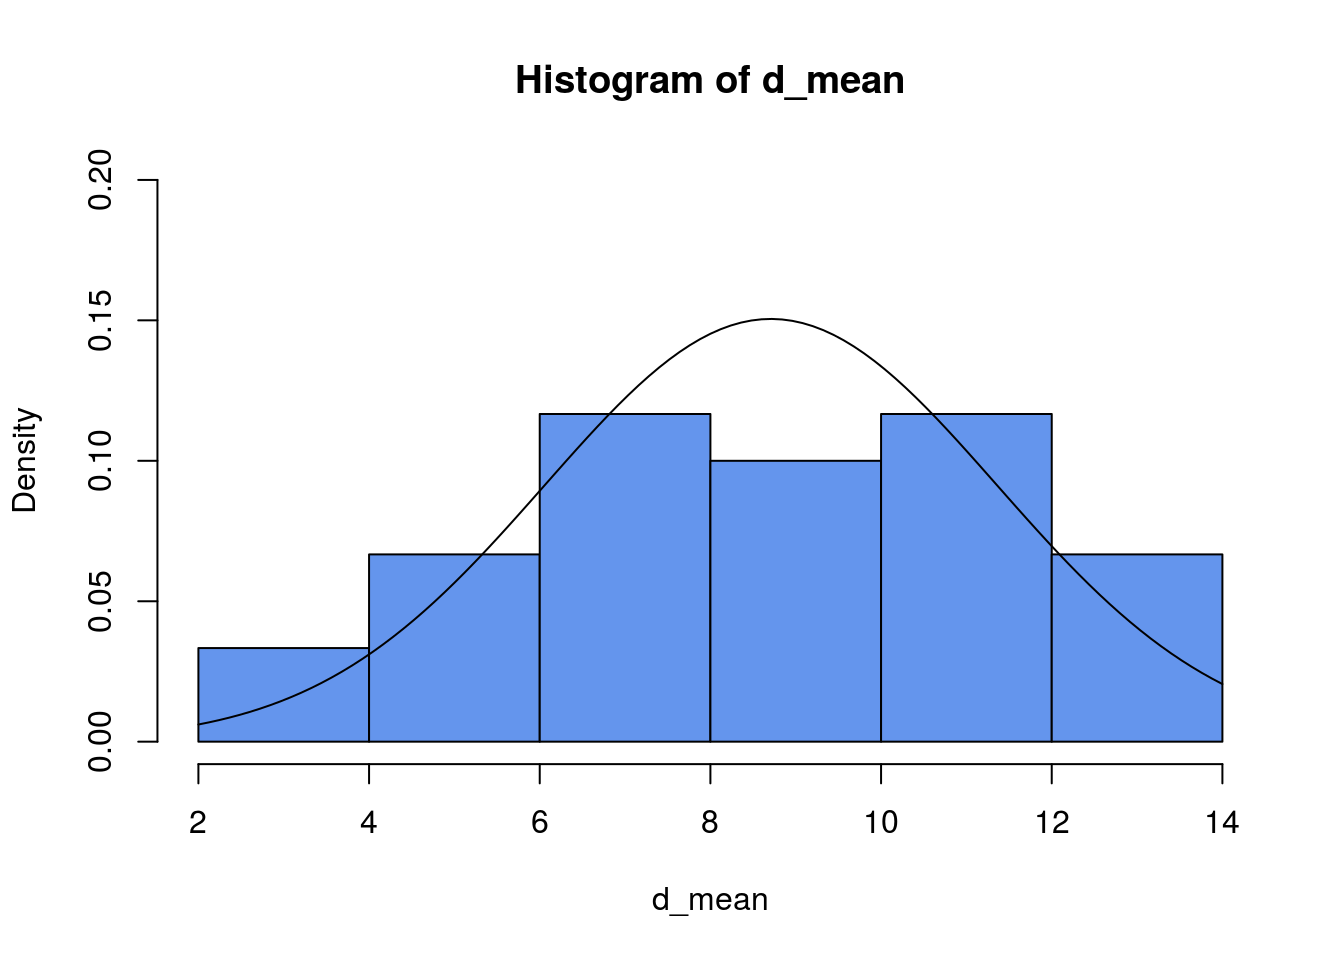
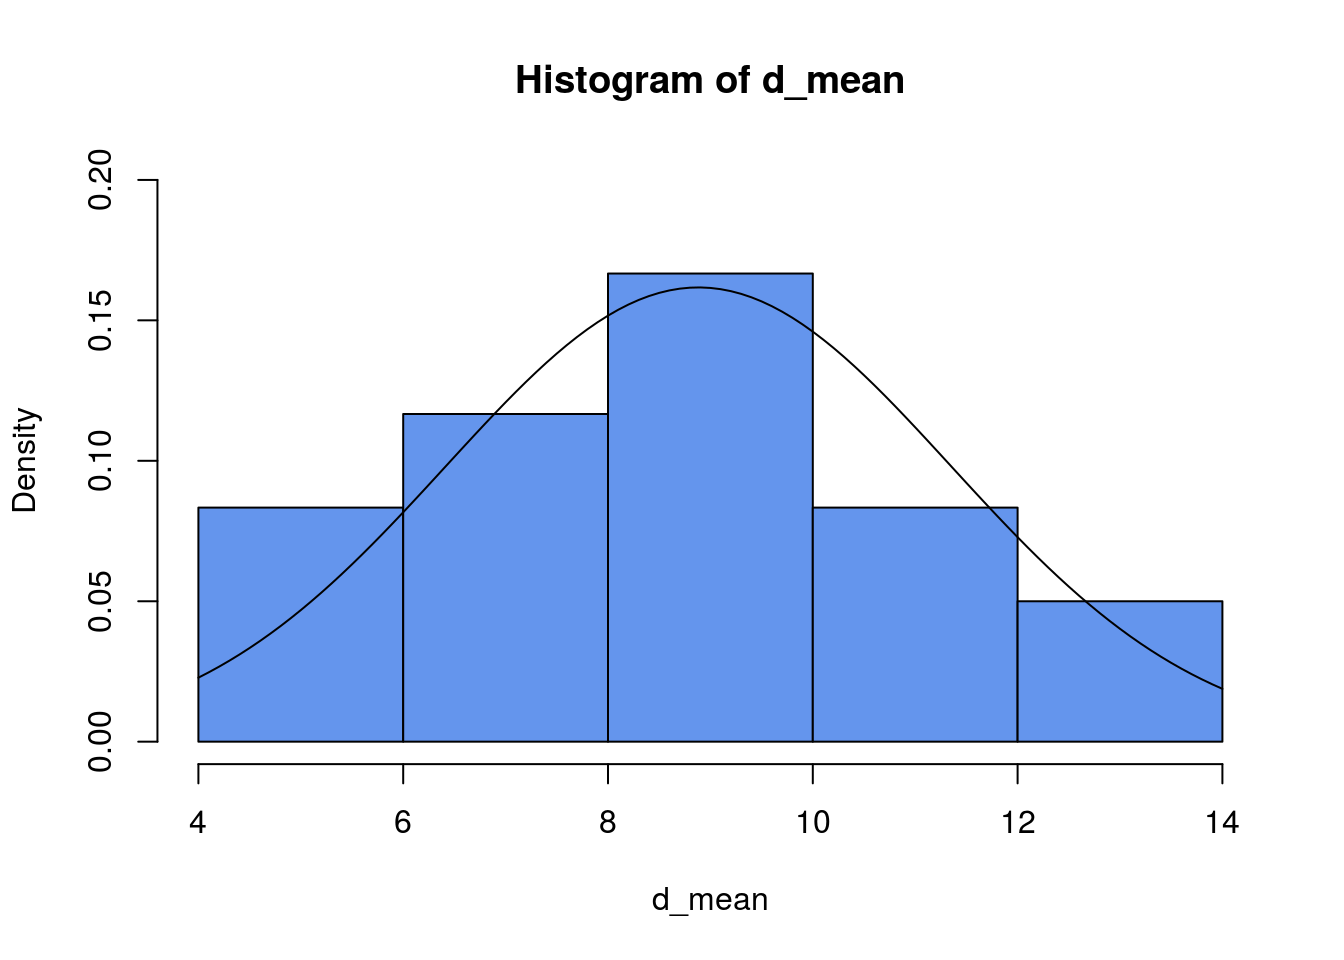
Go!

diff --git a/d_muestral.html b/d_muestral.html
@@ -334,16 +334,16 @@ for (i in 1:30){
   d_mean[i] &lt;- mean(sample(N,size = 4,replace = TRUE))
 }
 print(d_mean)</code></pre>
-<pre><code>##  [1]  8.00 12.50  3.75  5.50 10.25  7.25  3.75  7.50  9.50 11.25  5.25
-## [12]  8.75  9.00 10.25  5.00  5.75  9.00  8.50 12.50 13.00  8.50 10.25
-## [23]  8.00  7.75  7.00 11.25 12.00 12.75  7.00 10.50</code></pre>
+<pre><code>##  [1]  6.50  9.25  5.25  5.75  6.25  9.00  8.25 11.00  6.00 13.00 13.50
+## [12]  7.00 11.00  8.50  7.25  5.75 11.00  9.25  9.50  9.75 13.75  9.75
+## [23]  6.00  8.00  6.75  6.50  9.50  9.75 11.75 12.00</code></pre>
 </div>
 <div id="calculamos-las-medias-de-todas-esas-muestras-y-tratamos-de-ver-graficamente-mediante-un-histograma-al-menos-si-hay-acercamiento-a-normalidad." class="section level4">
 <h4>3) Calculamos las medias de todas esas muestras y tratamos de ver gráficamente mediante un histograma al menos si hay acercamiento a Normalidad.</h4>
 <pre class="r"><code>mean(d_mean)</code></pre>
-<pre><code>## [1] 8.708333</code></pre>
+<pre><code>## [1] 8.883333</code></pre>
 <pre class="r"><code>sd(d_mean)</code></pre>
-<pre><code>## [1] 2.650702</code></pre>
+<pre><code>## [1] 2.466791</code></pre>
 <pre class="r"><code>hist(d_mean,col = &quot;cornflowerblue&quot;,freq = F,ylim = c(0,0.2))
 curve(dnorm(x,mean(d_mean),sd(d_mean)),add=TRUE)</code></pre>
 <p><img src="d_muestral_files/figure-html/unnamed-chunk-3-1.png" width="672" /></p>
@@ -354,14 +354,14 @@ curve(dnorm(x,mean(d_mean),sd(d_mean)),add=TRUE)</code></pre>
 <div id="notar-que-la-media-de-las-medias-muestrales-es" class="section level4">
 <h4>1. Notar que la media de las medias muestrales es</h4>
 </div>
-<div id="mu_barx-8.71." class="section level4">
-<h4><span class="math inline">\(\mu_{\bar{X}}=\)</span> 8.71.</h4>
+<div id="mu_barx-8.88." class="section level4">
+<h4><span class="math inline">\(\mu_{\bar{X}}=\)</span> 8.88.</h4>
 </div>
 <div id="este-resultado-esta-bien-cerca-de-la-media-poblacional-pues-mu9.55" class="section level4">
 <h4>Este resultado está bien cerca de la media poblacional, pues <span class="math inline">\(\mu=9.55\)</span></h4>
 </div>
-<div id="la-desviacion-estandar-de-la-media-muestral-es-2.65-mientras-que" class="section level4">
-<h4>2. La desviación estándar de la media muestral es 2.65, mientras que</h4>
+<div id="la-desviacion-estandar-de-la-media-muestral-es-2.47-mientras-que" class="section level4">
+<h4>2. La desviación estándar de la media muestral es 2.47, mientras que</h4>
 </div>
 <div id="sigma_barxdfracsigmasqrtndfrac4.77sqrt42.4-." class="section level4">
 <h4><span class="math inline">\(\sigma_{\bar{X}}=\dfrac{\sigma}{\sqrt{n}}=\dfrac{4.77}{\sqrt{4}}=2.4\)</span> .</h4>
@@ -384,14 +384,14 @@ curve(dnorm(x,mean(d_mean),sd(d_mean)),add=TRUE)</code></pre>
 <p><img src="d_muestral_files/figure-html/unnamed-chunk-4-1.png" width="672" /></p>
 <p>Ahora, con un mayor número de muestras tenemos que:</p>
 </div>
-<div id="mu_barx-9.56." class="section level4">
-<h4><span class="math inline">\(\mu_{\bar{X}}=\)</span> 9.56.</h4>
+<div id="mu_barx-9.54." class="section level4">
+<h4><span class="math inline">\(\mu_{\bar{X}}=\)</span> 9.54.</h4>
 </div>
 <div id="este-resultado-esta-bien-cerca-de-la-media-poblacional-pues-mu9.55-1" class="section level4">
 <h4>Este resultado está bien cerca de la media poblacional, pues <span class="math inline">\(\mu=9.55\)</span></h4>
 </div>
-<div id="la-desviacion-estandar-de-la-media-muestral-es-2.27-comparado-con-sigma_barx2.38" class="section level4">
-<h4>2. La desviación estándar de la media muestral es 2.27, comparado con <span class="math inline">\(\sigma_{\bar{X}}=2.38\)</span></h4>
+<div id="la-desviacion-estandar-de-la-media-muestral-es-2.26-comparado-con-sigma_barx2.38" class="section level4">
+<h4>2. La desviación estándar de la media muestral es 2.26, comparado con <span class="math inline">\(\sigma_{\bar{X}}=2.38\)</span></h4>
 </div>
 </div>
 <div id="aplicaciones" class="section level3">
@@ -426,13 +426,40 @@ curve(dnorm(x,mean(d_mean),sd(d_mean)),add=TRUE)</code></pre>
 <div id="caso-2-cuando-desconocemos-la-distribucion-de-la-poblacion-y-n-geq-30" class="section level4">
 <h4>Caso 2: Cuando desconocemos la distribución de la población y <span class="math inline">\(n \geq 30\)</span></h4>
 <ol style="list-style-type: decimal">
-<li><h4 id="se-extrae-un-muestra-de-tamano-n30-de-una-poblacion-que-tiene-una-distribucion-desconocida-con-media-mu-y-varianza-sigma2-pero-que-por-alguna-razon-conocemos-que-mu10y-que-sigma233.34.-con-la-informacion-anterior-estamos-interesados-en-contestar-las-siguientes-preguntas">Se extrae un muestra de tamaño <span class="math inline">\(n=30\)</span> de una población que tiene una distribución desconocida con media <span class="math inline">\(\mu\)</span> y varianza <span class="math inline">\(\sigma^2\)</span>, pero que por alguna razón conocemos que <span class="math inline">\(\mu=10\)</span>y que <span class="math inline">\(\sigma^2=33.34\)</span>. Con la información anterior estamos interesados en contestar las siguientes preguntas:</h4></li>
+<li><h4 id="se-extrae-un-muestra-de-tamano-n30-de-una-poblacion-que-tiene-una-distribucion-desconocida-con-media-mu-y-varianza-sigma2-pero-que-por-alguna-razon-conocemos-que-mu10-y-que-sigma233.34.-con-la-informacion-anterior-estamos-interesados-en-contestar-las-siguientes-preguntas">Se extrae un muestra de tamaño <span class="math inline">\(n=30\)</span> de una población que tiene una distribución desconocida con media <span class="math inline">\(\mu\)</span> y varianza <span class="math inline">\(\sigma^2\)</span>, pero que por alguna razón conocemos que <span class="math inline">\(\mu=10\)</span> y que <span class="math inline">\(\sigma^2=33.34\)</span>. Con la información anterior estamos interesados en contestar las siguientes preguntas:</h4></li>
 </ol>
 <ol style="list-style-type: lower-alpha">
 <li><h4 id="cual-es-la-distribucion-muestral-del-promedio-muestral-es-decir-la-distribucion-de-barx">¿Cuál es la distribución muestral del promedio muestral?, es decir la distribución de <span class="math inline">\(\bar{X}\)</span></h4></li>
+</ol>
+</div>
+<div id="en-este-caso-como-n-geq-30-podemos-usar-el-tlc.-por-lo-tanto-la-distribucion-de-barx-es" class="section level4">
+<h4>En este caso como <span class="math inline">\(n \geq 30\)</span> podemos usar el TLC. Por lo tanto la distribución de <span class="math inline">\(\bar{X}\)</span> es</h4>
+<p><span class="math display">\[\bar{X} \sim Normal\bigg(10,\dfrac{5.7740}{\sqrt{30}}\bigg)\]</span></p>
+<ol start="2" style="list-style-type: lower-alpha">
 <li><h4 id="cual-es-la-probabilidad-de-obtener-un-promedio-muestral-mayor-a-12.5">¿Cuál es la probabilidad de obtener un promedio muestral mayor a 12.5?</h4></li>
+</ol>
+<p><span class="math display">\[P(\bar{X} &gt; 12.5)= 1 - P(\bar{X} &lt; 12.5)=\]</span></p>
+<p><span class="math display">\[ 1 - P\Bigg(Z&lt; \dfrac{12.5-10}{\frac{5.7740}{\sqrt{30}}}\Bigg)=\]</span></p>
+<p><span class="math display">\[ 1 - P\bigg(Z &lt; \dfrac{2.5}{1.0541}\bigg)=\]</span></p>
+<p><span class="math display">\[ 1 - P(Z &lt; 2.3716)=\]</span></p>
+<p>Buscamos en <code>RStudio</code> la probabilidad <span class="math inline">\(P(Z &lt; 2.3716)\)</span></p>
+<pre class="r"><code>pnorm(2.3716)</code></pre>
+<pre><code>## [1] 0.9911444</code></pre>
+<p>Entonces,</p>
+<p><span class="math display">\[P(\bar{X} &gt; 12.5)= 1 - P(Z &lt; 2.3716)= 1 - 0.991144 = 0.008856\]</span></p>
+<ol start="3" style="list-style-type: lower-alpha">
 <li><h4 id="cual-es-la-probabilidad-de-encontrar-un-promedio-muestral-entre-8-y-15">¿Cuál es la probabilidad de encontrar un promedio muestral entre 8 y 15?</h4></li>
 </ol>
+<p>Solo basta encontrar</p>
+<p><span class="math display">\[P(8 &lt; \bar{X} &lt; 15)=P(\bar{X} &lt; 15) - P(\bar{X} &lt; 8)=\]</span></p>
+<p><span class="math display">\[P\Bigg(Z&lt; \dfrac{15-10}{\frac{5.7740}{\sqrt{30}}}\Bigg) - P\Bigg(Z&lt; \dfrac{8-10}{\frac{5.7740}{\sqrt{30}}}\Bigg)=\]</span></p>
+<p><span class="math display">\[P\bigg(Z&lt; \dfrac{5}{1.0541}\bigg) - P\bigg(Z&lt; \dfrac{-2}{1.0541}\bigg)=\]</span></p>
+<p><span class="math display">\[P\bigg(Z&lt; 4.74\bigg) - P\bigg(Z&lt; -1.89\bigg)=\]</span></p>
+<p>Ahora usamos <code>RStudio</code></p>
+<pre class="r"><code>pnorm(4.74) - pnorm(-1.89)</code></pre>
+<pre><code>## [1] 0.97062</code></pre>
+<p>Entonces,</p>
+<p><span class="math display">\[P(8 &lt; \bar{X} &lt; 15=0.9706\]</span></p>
 <ol start="2" style="list-style-type: decimal">
 <li><h4 id="supongamos-que-el-ingreso-familiar-promedio-en-los-estados-unidos-es-de-51344-con-una-desviacion-estandar-de-15377.-cual-es-la-probabilidad-de-que-una-muestra-aleatoria-de-124-hogares-tenga-un-ingreso-familiar-promedio-de-mas-de-54000">Supongamos que el ingreso familiar promedio en los Estados Unidos es de <span class="math inline">\(\$51,344\)</span>, con una desviación estándar de <span class="math inline">\(\$15,377\)</span>. ¿Cuál es la probabilidad de que una muestra aleatoria de <span class="math inline">\(124\)</span> hogares tenga un ingreso familiar promedio de más de $ 54,000?</h4></li>
 </ol>
@@ -455,16 +482,16 @@ curve(dnorm(x,mean(d_mean),sd(d_mean)),add=TRUE)</code></pre>
 <div id="pz-1.9233" class="section level4">
 <h4><span class="math display">\[1 - P(Z&lt; 1.9233)=\]</span></h4>
 </div>
-<div id="buscamos-en-rstudio-la-probabilidad-pz1.9233" class="section level4">
-<h4>Buscamos en <code>RStudio</code> la probabilidad <span class="math inline">\(P(Z&lt;1.9233)\)</span></h4>
-<pre class="r"><code>pnorm(1.9233)</code></pre>
-<pre><code>## [1] 0.9727788</code></pre>
+<div id="buscamos-en-rstudio-la-probabilidad-pz1.92" class="section level4">
+<h4>Buscamos en <code>RStudio</code> la probabilidad <span class="math inline">\(P(Z&lt;1.92)\)</span></h4>
+<pre class="r"><code>pnorm(1.92)</code></pre>
+<pre><code>## [1] 0.9725711</code></pre>
 </div>
 <div id="asi" class="section level4">
 <h4>Así,</h4>
 </div>
-<div id="pbarx-540001---pz-1.92331---0.9727-0.0273" class="section level4">
-<h4><span class="math display">\[P(\bar{X} &gt; 54000)=1 - P(Z&lt; 1.9233)=1 - 0.9727= 0.0273\]</span></h4>
+<div id="pbarx-540001---pz-1.92331---0.9725-0.0275" class="section level4">
+<h4><span class="math display">\[P(\bar{X} &gt; 54000)=1 - P(Z&lt; 1.9233)=1 - 0.9725= 0.0275\]</span></h4>
 </div>
 </div>
 <div id="distribucion-de-la-proporcion-muestral" class="section level3">
